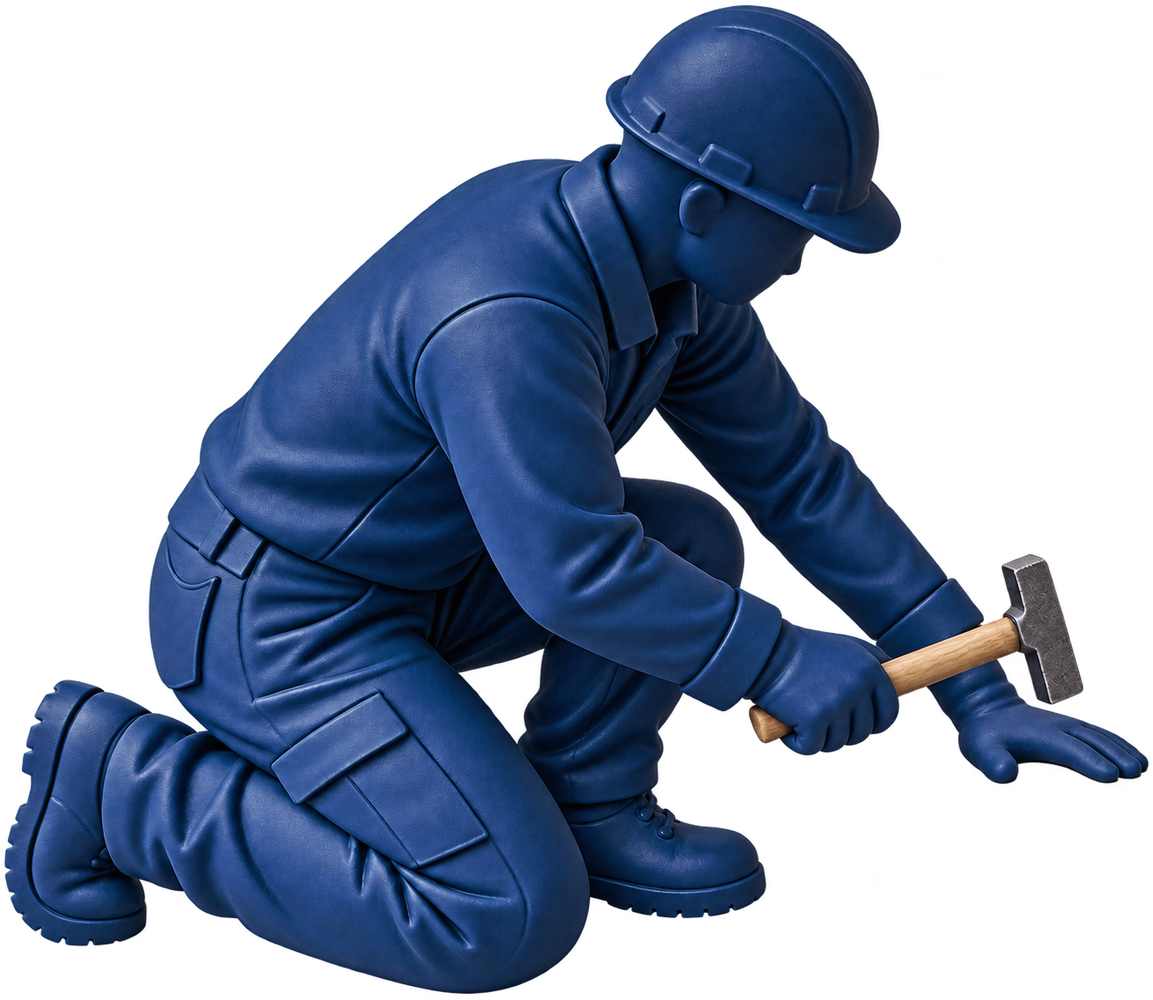
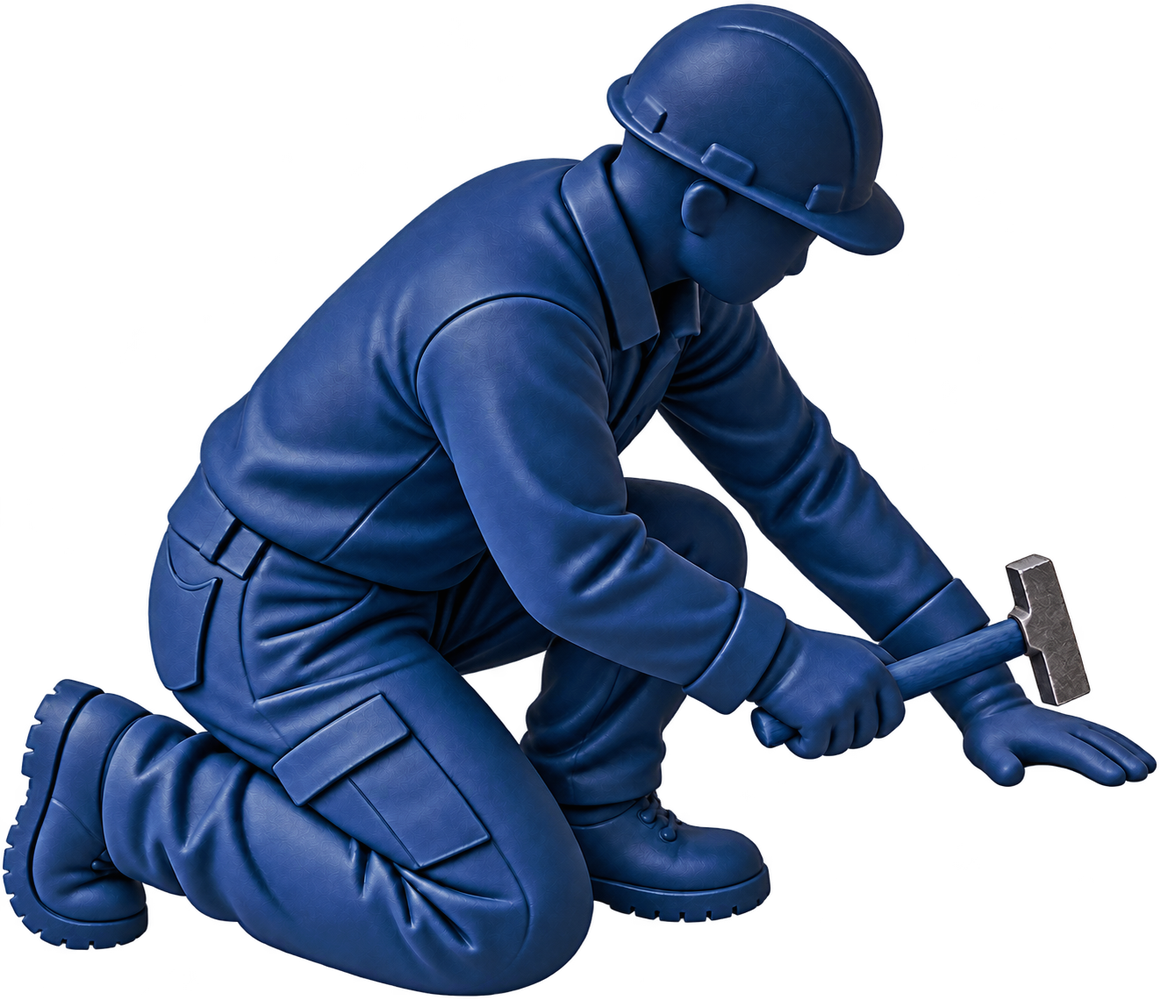
Match hero character heights and recolor hammer handle

diff --git a/css/hex_pc.css b/css/hex_pc.css
@@ -4883,7 +4883,7 @@ html body
   object-fit:cover;
   object-position:center top;
 }
-/* 単体PNGは台座画像内の横位置・下端位置・幅を百分率で指定。 */
+/* 単体画像は横位置・下端位置・幅を百分率で指定。人物の幅は左官職人と同じ高さになる比率。 */
 .hex-hero-character{
   position:absolute;
   left:var(--hex-sprite-x);
@@ -4893,12 +4893,12 @@ html body
   height:auto;
   max-width:none;
 }
-.hex-hero-character--family{--hex-sprite-x:20%;--hex-sprite-bottom:24%;--hex-sprite-width:10%;}
-.hex-hero-character--supervisor{--hex-sprite-x:29%;--hex-sprite-bottom:36%;--hex-sprite-width:10%;}
-.hex-hero-character--block{--hex-sprite-x:35%;--hex-sprite-bottom:33%;--hex-sprite-width:10%;}
-.hex-hero-character--sakan{--hex-sprite-x:57%;--hex-sprite-bottom:27%;--hex-sprite-width:10%;}
-.hex-hero-character--pruning{--hex-sprite-x:53%;--hex-sprite-bottom:38%;--hex-sprite-width:10%;}
-.hex-hero-character--aluminum{--hex-sprite-x:65%;--hex-sprite-bottom:39%;--hex-sprite-width:10%;}
+.hex-hero-character--family{--hex-sprite-x:20%;--hex-sprite-bottom:24%;--hex-sprite-width:6.714697%;}
+.hex-hero-character--supervisor{--hex-sprite-x:29%;--hex-sprite-bottom:36%;--hex-sprite-width:4.329971%;}
+.hex-hero-character--block{--hex-sprite-x:35%;--hex-sprite-bottom:33%;--hex-sprite-width:8.364553%;}
+.hex-hero-character--sakan{--hex-sprite-x:57%;--hex-sprite-bottom:27%;--hex-sprite-width:10.000000%;}
+.hex-hero-character--pruning{--hex-sprite-x:53%;--hex-sprite-bottom:38%;--hex-sprite-width:4.121037%;}
+.hex-hero-character--aluminum{--hex-sprite-x:65%;--hex-sprite-bottom:39%;--hex-sprite-width:2.572046%;}
 
 /* 新構成：直下の各画像をHTML順に重ねる。同寸法画像と個別配置を分ける。 */
 .hex-hero .hex-hero-scene > .hex-hero-layer{

diff --git a/examples/hero-layers.html b/examples/hero-layers.html
@@ -30,12 +30,12 @@
         <img class="hex-hero-sprite hex-hero-sprite--tree03" src="tree03.png" alt="">
         <img class="hex-hero-sprite hex-hero-sprite--underplant03" src="underplant03.png" alt="">
         <!-- 11～16 人物：位置とサイズを個別指定 -->
-        <img class="hex-hero-character hex-hero-character--aluminum" src="aluminum.png" alt="">
-        <img class="hex-hero-character hex-hero-character--pruning" src="pruning.png" alt="">
-        <img class="hex-hero-character hex-hero-character--sakan" src="sakan.png" alt="">
-        <img class="hex-hero-character hex-hero-character--block" src="block.png" alt="">
-        <img class="hex-hero-character hex-hero-character--supervisor" src="supervisor.png" alt="">
-        <img class="hex-hero-character hex-hero-character--family" src="family.png" alt="">
+        <img class="hex-hero-character hex-hero-character--aluminum" src="aluminum.webp" alt="">
+        <img class="hex-hero-character hex-hero-character--pruning" src="pruning.webp" alt="">
+        <img class="hex-hero-character hex-hero-character--sakan" src="sakan.webp" alt="">
+        <img class="hex-hero-character hex-hero-character--block" src="block.webp" alt="">
+        <img class="hex-hero-character hex-hero-character--supervisor" src="supervisor.webp" alt="">
+        <img class="hex-hero-character hex-hero-character--family" src="family.webp" alt="">
       </div>
 
       <div class="hex-hero-bottom-illustrations" aria-hidden="true">

diff --git a/js/hex.js b/js/hex.js
@@ -249,6 +249,7 @@ const HEX_IS_PRODUCTION=HEX_HOSTS.PRODUCTION.indexOf(location.hostname)!==-1;
     file=(file||'').trim();
     // Keep the existing six image basenames; only the format changes.
     file=file.replace(/^((?:left|right)_bottom0[1-3])\.png(?=[?#]|$)/i,'$1.webp');
+    file=file.replace(/^(aluminum|pruning|sakan|block|supervisor|family)\.png(?=[?#]|$)/i,'$1.webp');
     if(!/^[^/\\?#]+\.(?:avif|gif|jpe?g|png|svg|webp)(?:[?#].*)?$/i.test(file))return null;
     return new URL(file,imageRoot).href;
   }

diff --git a/images/top-hero/mannequin-artwork.md b/images/top-hero/mannequin-artwork.md
@@ -68,3 +68,15 @@ Use case: precise-object-edit. Edit the attached navy kneeling blocklayer sprite
 ### Mother clothing refinement
 
 Precise local clothing edit of the attached terracotta family sprite. Change only the mother's trousers at image-left, in the seat/hips area directly below her waistband. The current seat is still tightly molded into two prominent rounded buttocks. Replace that with loose draped trouser fabric: a relaxed straight silhouette from waist over the hips, soft vertical folds falling toward the thighs, no visible central buttock cleft, no two spherical lobes, no stretched fabric. Modest natural everyday loose trousers. Keep the same trouser color, waistband height, wide trouser legs, mother pose and all other family members absolutely unchanged. Do not change the faces, baby, hands, shoes, overall layout or materials. Transparent background, complete four-person family, no ground or shadows.
+
+## Navy hammer handle and equal rendered heights
+
+The hammer handle in block.webp was recolored with the built-in image_gen tool. Latest block asset: 1161 x 1000 pixels. Hammer head remains metallic.
+
+All six CSS character widths are calculated from their actual WebP aspect ratios, keeping sakan at 10% of scene width. Thus each rendered height is 10 / 1.388 = 7.204611% of scene width. Position and bottom offsets remain unchanged. The same width values are consumed by the canvas compositor and character hit testing, so visual and interaction bounds stay consistent. Assets remain 1000 pixels tall. Widths must be recalculated if asset aspect ratios change.
+
+Final edit prompt:
+
+Precise local color edit. Attached navy kneeling blocklayer sprite is the edit target. Change ONLY the light brown WOODEN HANDLE/SHAFT of the hammer to navy blue matching the mannequin's workwear, including the small visible end below the gripping hand. Retain handle shading and form. The dark metallic hammer HEAD stays unchanged. Preserve every other pixel/detail as closely as possible: exact pose, hands, extended empty left palm, right hand grip, body, helmet, navy clothing, camera angle, composition and proportions. No block, no new objects. True transparent background, clean alpha, no ground, no glow. Complete fullbody sprite.
+
+The hero image resolver now maps the six legacy bare PNG filenames to these WebP files. The example HTML also uses WebP character filenames.
